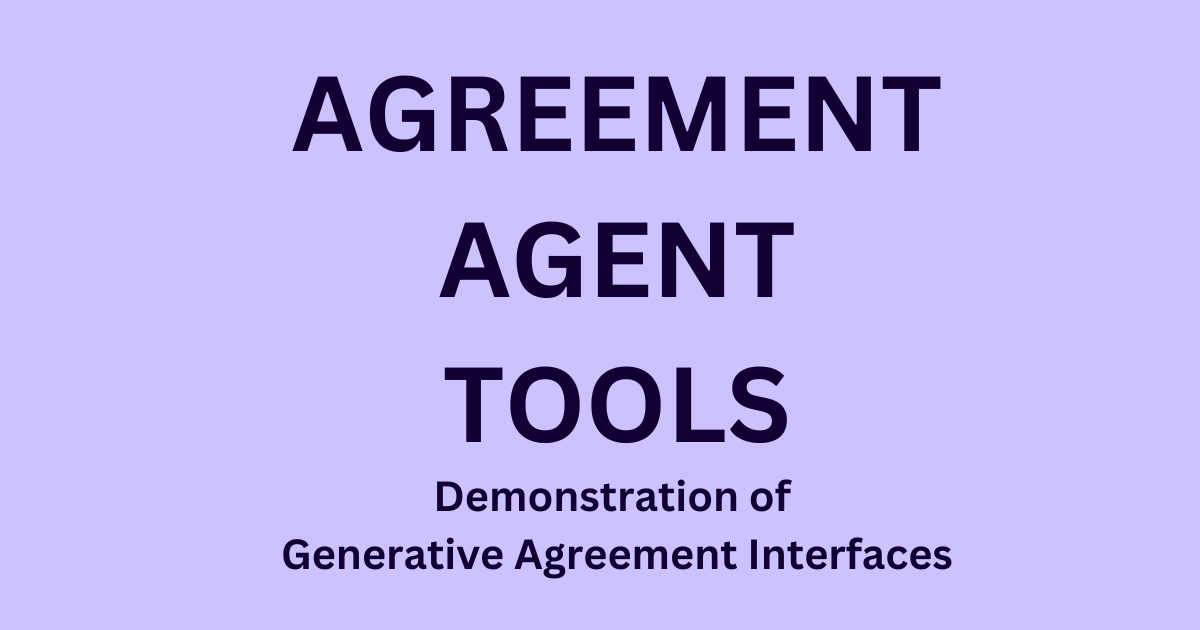
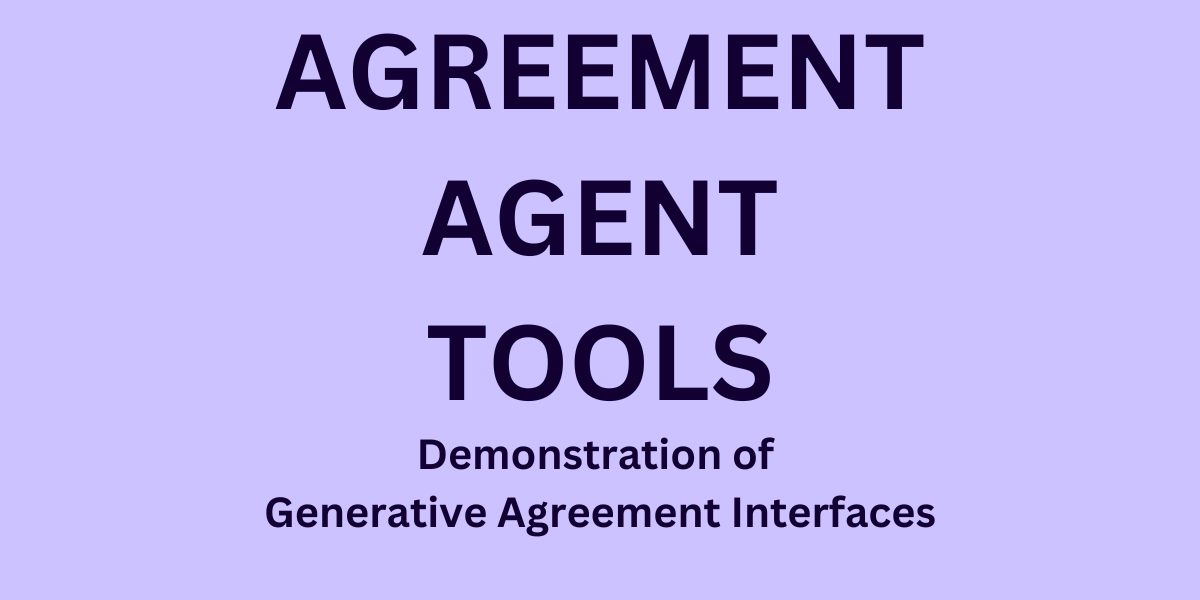
feat: update metadata and switch to static OG image

Changed region(s): [[0.2158, 0.54, 0.8017, 0.93], [0.2158, 0.03, 0.8017, 0.24], [0.3392, 0.3, 0.6783, 0.48]]

diff --git a/app/layout.tsx b/app/layout.tsx
@@ -18,14 +18,6 @@ export const metadata: Metadata = {
     description: 'AI agents that build UIs and agreement workflows on demand. Turning Docusign from a destination into an invisible layer.',
     url: 'https://docusign-agreement-copilot.vercel.app',
     siteName: 'Agreement Copilot',
-    images: [
-      {
-        url: '/opengraph-image.png',
-        width: 1200,
-        height: 630,
-        alt: 'Agreement Copilot Interface',
-      }
-    ],
     locale: 'en_US',
     type: 'website',
   },
